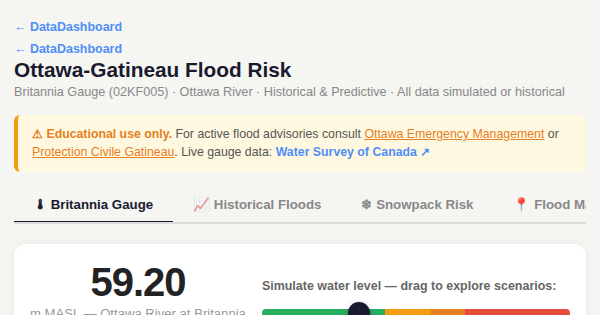
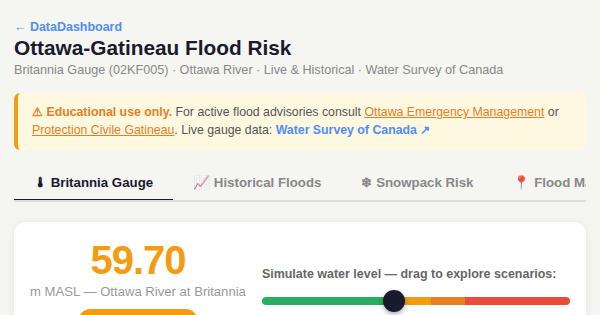
chore: update index, feed, previews, og tags [skip ci]

diff --git a/index.html b/index.html
@@ -231,7 +231,7 @@
           <div class="card-title">Ottawa-Gatineau Flood Risk — Britannia Gauge</div>
           <div class="badges"><span class="badge">Chart.js</span></div>
         </div>
-        <p class="card-desc">Britannia Gauge (02KF005) &middot; Ottawa River &middot; Historical &amp; Predictive &middot; All data simulated or h…</p>
+        <p class="card-desc">Britannia Gauge (02KF005) &middot; Ottawa River &middot; Live &amp; Historical &middot; Water Survey of Canada</p>
         <div class="card-footer">
           <span class="card-date">Apr 2026</span>
           <span class="card-link">View analysis →</span>
